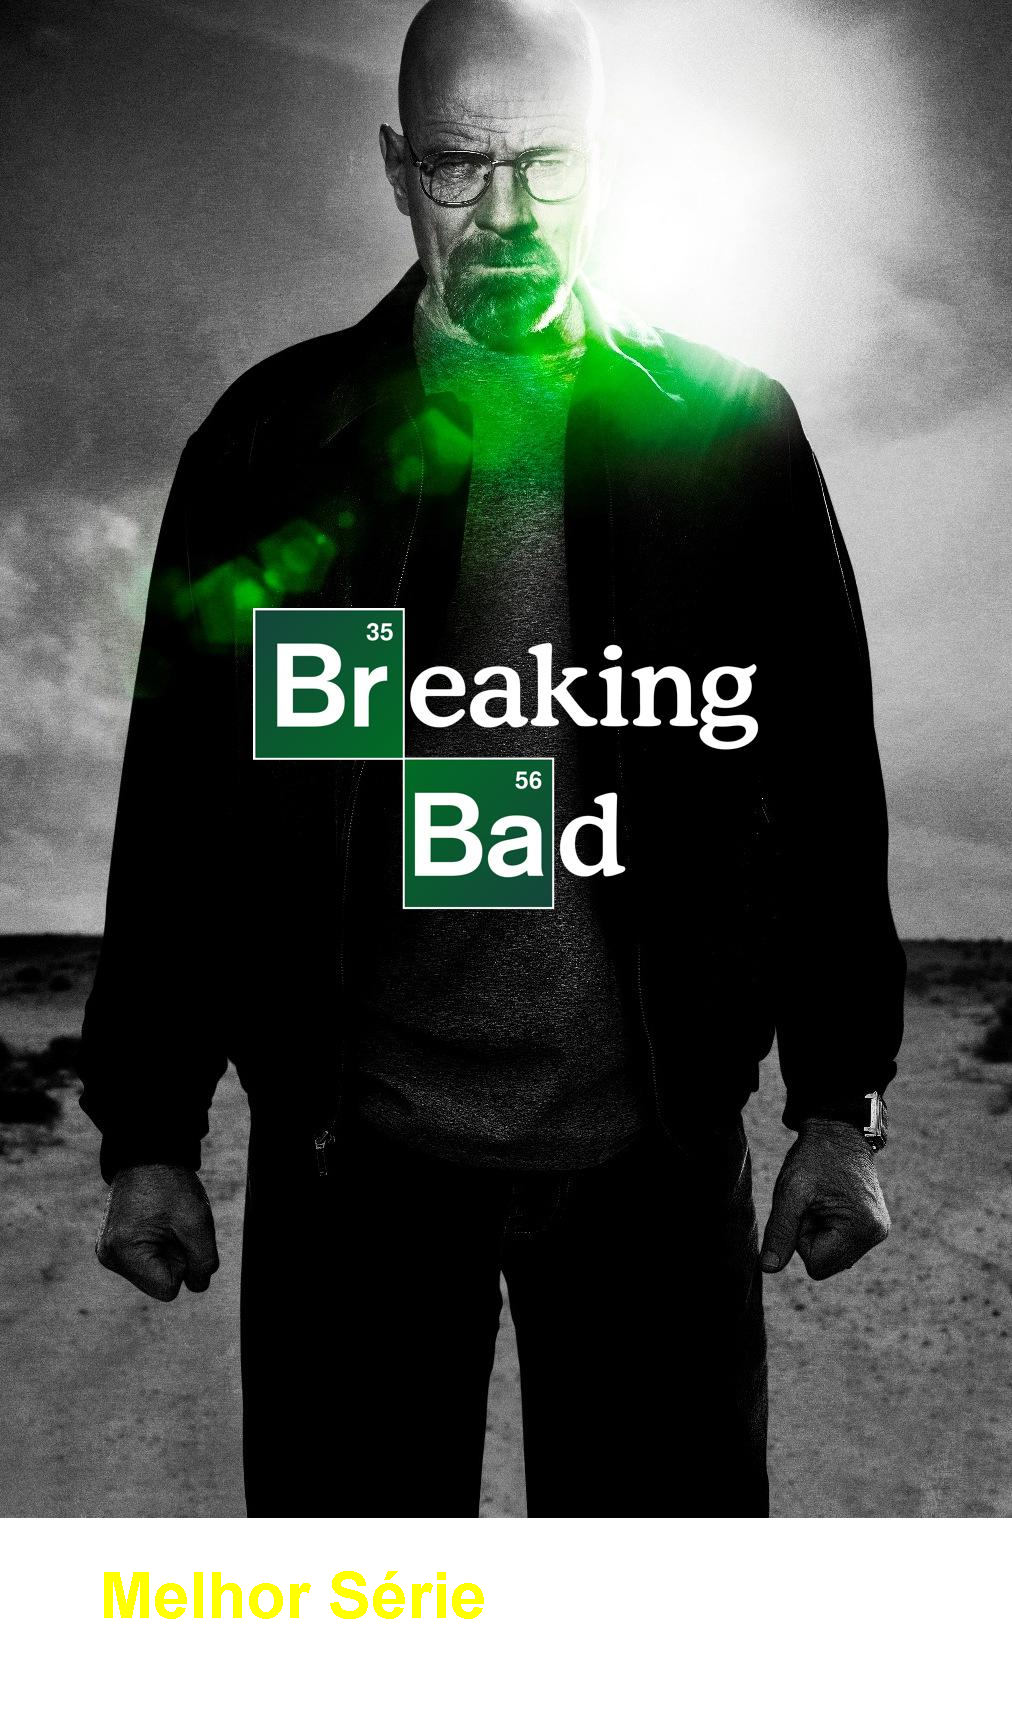
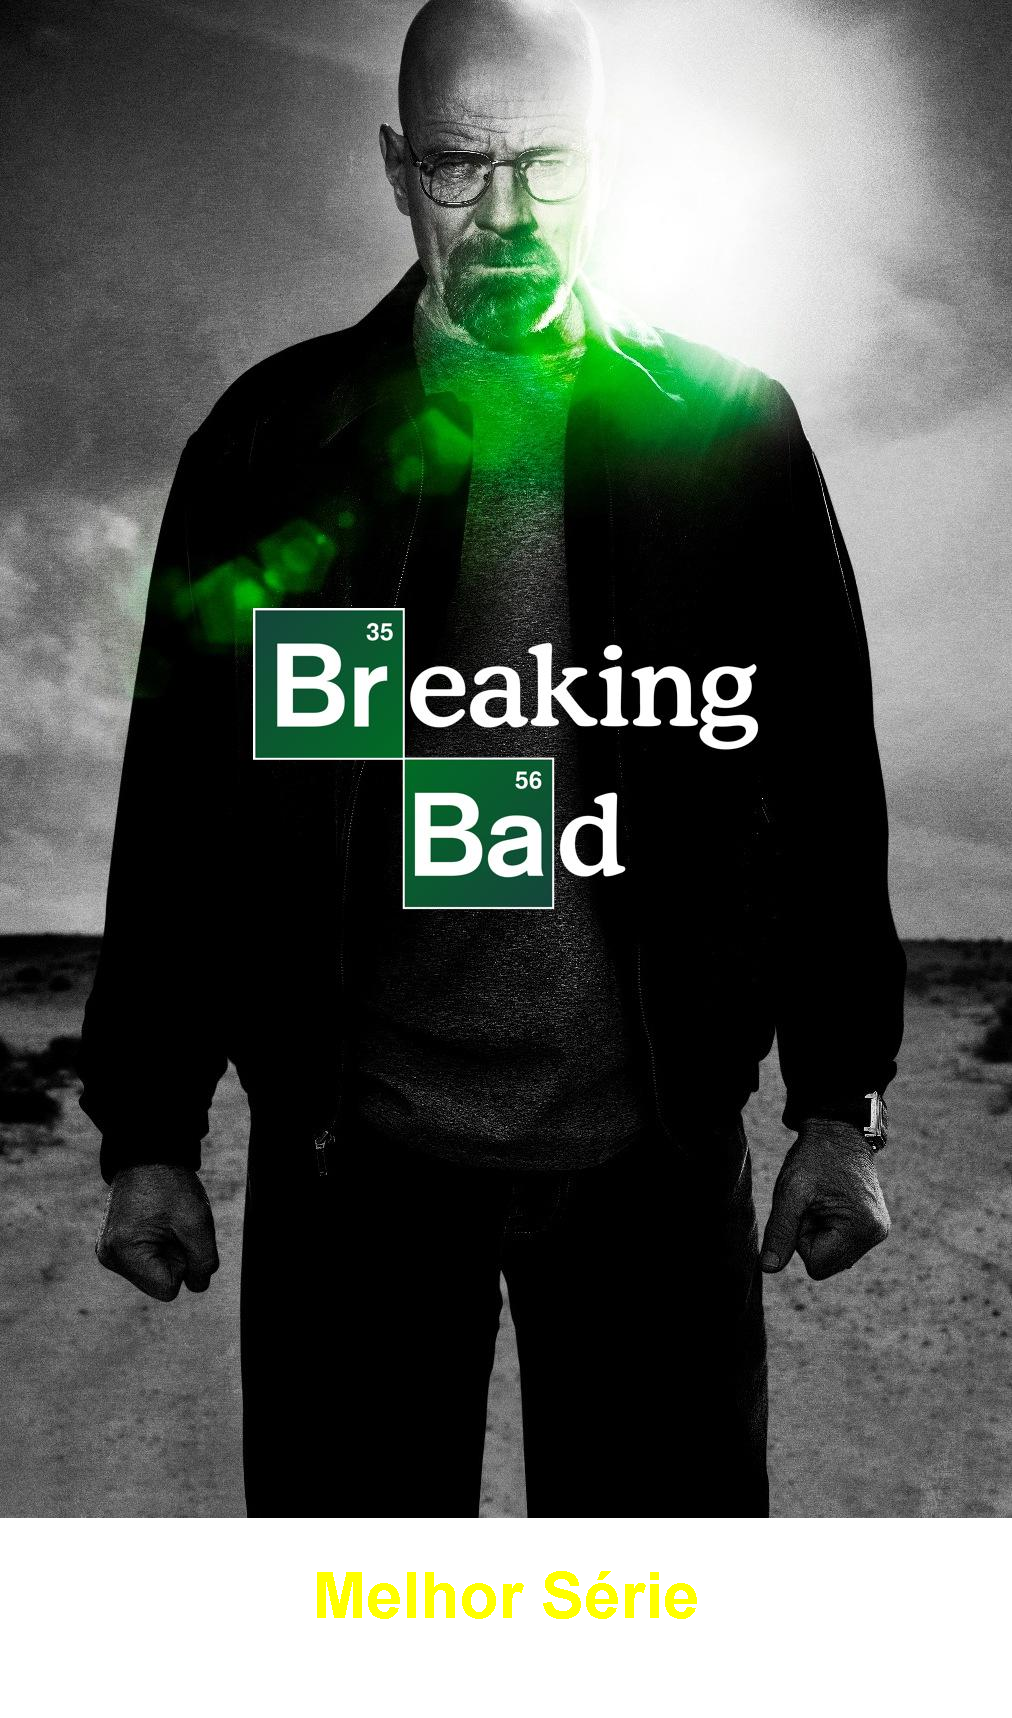
desafio centralizat texto

Changed region(s): [[0.0919, 0.8946, 0.7045, 0.9563]]

diff --git a/Alura-stickers/src/FabricaDeFigurinhas.java b/Alura-stickers/src/FabricaDeFigurinhas.java
@@ -1,6 +1,8 @@
 import java.awt.Color;
 import java.awt.Font;
+import java.awt.FontMetrics;
 import java.awt.Graphics2D;
+import java.awt.geom.Rectangle2D;
 import java.awt.image.BufferedImage;
 import java.io.File;
 import java.io.InputStream;
@@ -14,16 +16,8 @@ public class FabricaDeFigurinhas {
     String nomeDoArquivo
   ) throws Exception {
     // leitura da imagem
-    // BufferedImage original = ImageIO.read(
-    //   new File("Alura-stickers/entrada/filme.jpg")
-    // );
 
-    // InputStream inputStream = new URL(
-    //   "https://raw.githubusercontent.com/alura-cursos/imersao-java-2-api/main/TopTVs_1.jpg"
-    // )
-    //   .openStream();
     BufferedImage original = ImageIO.read(inputStream);
-    // criar nova imagem em memória com transparência e com tamanho novo
 
     int largura = original.getWidth();
     int altura = original.getHeight();
@@ -47,7 +41,13 @@ public class FabricaDeFigurinhas {
 
     // escrever uma frase na nova imagem
 
-    graphics.drawString(textoDaImagem, 100, novaAltura - 100);
+    String texto = textoDaImagem;
+    FontMetrics fontMetrics = graphics.getFontMetrics();
+    Rectangle2D retangulo = fontMetrics.getStringBounds(texto, graphics);
+    int larguraDoTexto = (int) retangulo.getWidth();
+    int posicaoTextoX = (largura - larguraDoTexto) / 2;
+
+    graphics.drawString(texto, posicaoTextoX, novaAltura - 100);
 
     // escrever a nova imagem em um arquivo
     ImageIO.write(
